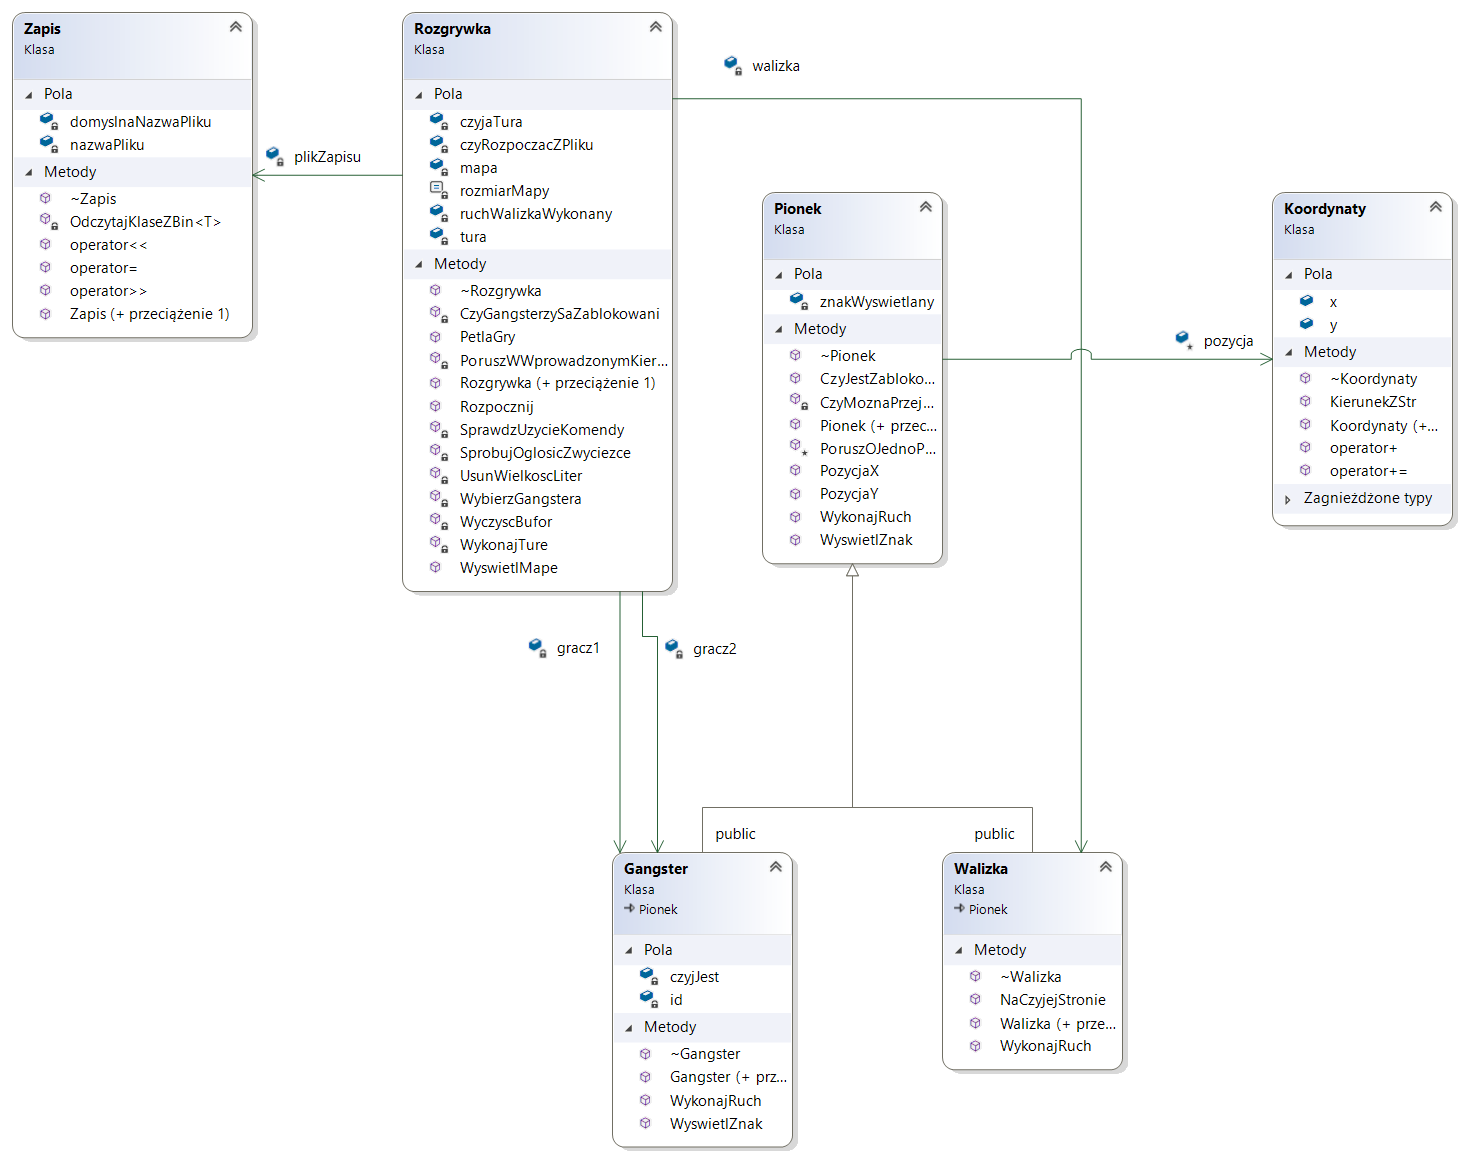
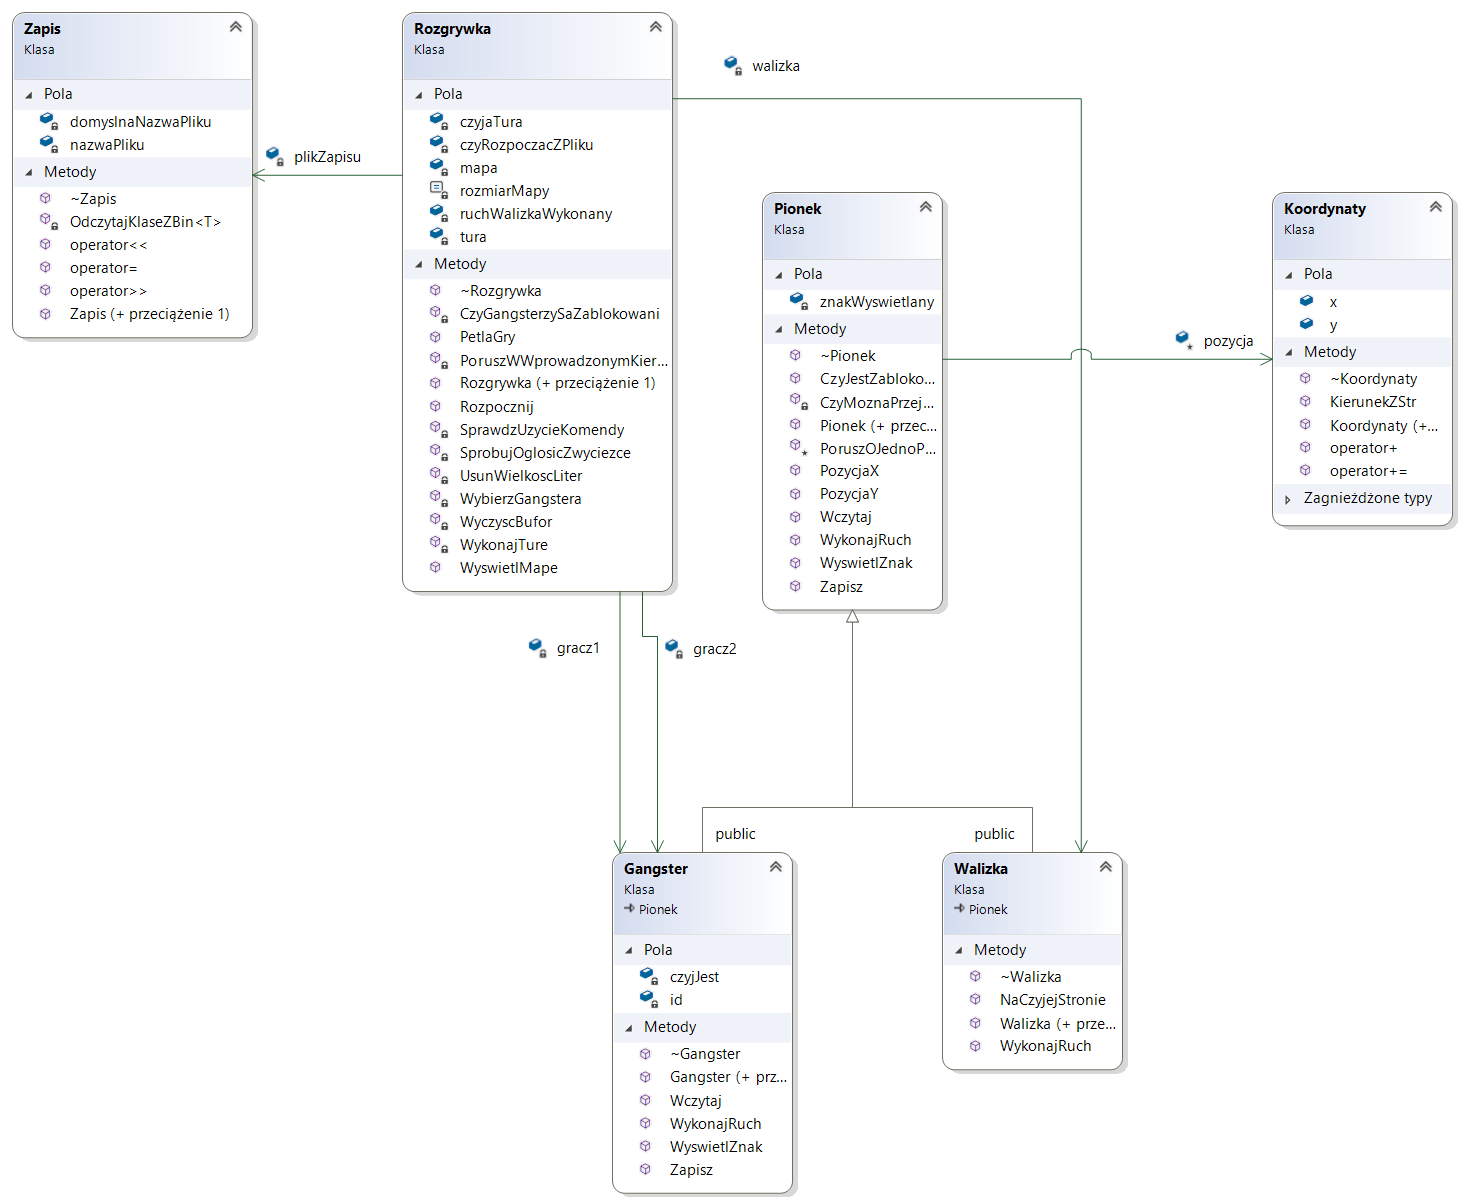
Optymalizacja rozmiaru pliku zapisu

diff --git a/Projekt/Gangsterskie-Porachunki/Gangsterskie-Porachunki/Zapis.cpp b/Projekt/Gangsterskie-Porachunki/Gangsterskie-Porachunki/Zapis.cpp
@@ -10,8 +10,10 @@ template<class T>
 void Zapis::OdczytajKlaseZBin(std::ifstream & plik, T ** ptrDoWczytania, Pionek *** mapa) const
 {
 	T tymczasowy;
-	plik.read((char*)&tymczasowy, sizeof(T));
-	mapa[tymczasowy.PozycjaY()][tymczasowy.PozycjaX()] = *ptrDoWczytania = new T(tymczasowy);
+	if (Pionek* pionek = dynamic_cast<Pionek*>(&tymczasowy)) {
+		plik >> pionek;
+		mapa[tymczasowy.PozycjaY()][tymczasowy.PozycjaX()] = *ptrDoWczytania = new T(tymczasowy);
+	}
 }
 
 Zapis::Zapis() : Zapis(domyslnaNazwaPliku)
@@ -42,10 +44,9 @@ Zapis& Zapis::operator<<(const Rozgrywka& _rozgrywka)
 	ofstream plik(nazwaPliku, ios::binary);
 	if (plik) {
 		for (int i = 0; i < _rozgrywka.rozmiarMapy; i++) {
-			plik.write((char*)_rozgrywka.gracz1[i], sizeof(Gangster));
-			plik.write((char*)_rozgrywka.gracz2[i], sizeof(Gangster));
+			plik << _rozgrywka.gracz1[i] << _rozgrywka.gracz2[i];
 		}
-		plik.write((char*)_rozgrywka.walizka, sizeof(Walizka));
+		plik << _rozgrywka.walizka;
 		plik.write((char*)&_rozgrywka.tura, sizeof(int));
 		plik.write((char*)&_rozgrywka.ruchWalizkaWykonany, sizeof(bool));
 		plik.write((char*)&_rozgrywka.czyjaTura, sizeof(Przynaleznosc));

diff --git a/Projekt/Gangsterskie-Porachunki/Gangsterskie-Porachunki/Pionek.cpp b/Projekt/Gangsterskie-Porachunki/Gangsterskie-Porachunki/Pionek.cpp
@@ -1,5 +1,8 @@
 #include "Pionek.h"
 
+#include <fstream>
+
+using namespace std;
 using Kierunek = Koordynaty::Kierunek;
 
 bool Pionek::CzyMoznaPrzejscNaPozycje(int pozycjaDocelowaX, int pozycjaDocelowaY, Pionek *** aktualnaMapa, const int rozmiarMapy) const
@@ -65,3 +68,34 @@ char Pionek::WyswietlZnak(Przynaleznosc czyjeWyswietlic) const
 	return znakWyswietlany;
 }
 
+bool Pionek::Zapisz(ofstream& plik) const
+{
+	if (!plik) {
+		return false;
+	}
+	plik.write((const char*)&znakWyswietlany, sizeof(char));
+	plik.write((const char*)&pozycja, sizeof(Koordynaty));
+	return true;
+}
+
+bool Pionek::Wczytaj(ifstream& plik)
+{
+	if (!plik) {
+		return false;
+	}
+	plik.read((char*)&znakWyswietlany, sizeof(char));
+	plik.read((char*)&pozycja, sizeof(Koordynaty));
+	return true;
+}
+
+std::ofstream & operator<<(std::ofstream & plik, Pionek * pionek)
+{
+	pionek->Zapisz(plik);
+	return plik;
+}
+
+std::ifstream & operator>>(std::ifstream & plik, Pionek * pionek)
+{
+	pionek->Wczytaj(plik);
+	return plik;
+}

diff --git a/Projekt/Gangsterskie-Porachunki/Gangsterskie-Porachunki/Gangster.cpp b/Projekt/Gangsterskie-Porachunki/Gangsterskie-Porachunki/Gangster.cpp
@@ -1,5 +1,6 @@
 #include "Gangster.h"
 
+using namespace std;
 using Kierunek = Koordynaty::Kierunek;
 
 Gangster::Gangster(): Gangster('E', -1, -1, Neutralny, -1)
@@ -26,4 +27,24 @@ char Gangster::WyswietlZnak(Przynaleznosc czyjeWyswietlic) const
 		return id + '1';
 	}
 	return Pionek::WyswietlZnak(czyjeWyswietlic);
+}
+
+bool Gangster::Zapisz(ofstream& plik) const
+{
+	if (!Pionek::Zapisz(plik)) {
+		return false;
+	}
+	plik.write((const char*)&czyjJest, sizeof(Przynaleznosc));
+	plik.write((const char*)&id, sizeof(int));
+	return true;
+}
+
+bool Gangster::Wczytaj(ifstream& plik)
+{
+	if (!Pionek::Wczytaj(plik)) {
+		return false;
+	}
+	plik.read((char*)&czyjJest, sizeof(Przynaleznosc));
+	plik.read((char*)&id, sizeof(int));
+	return true;
 }
